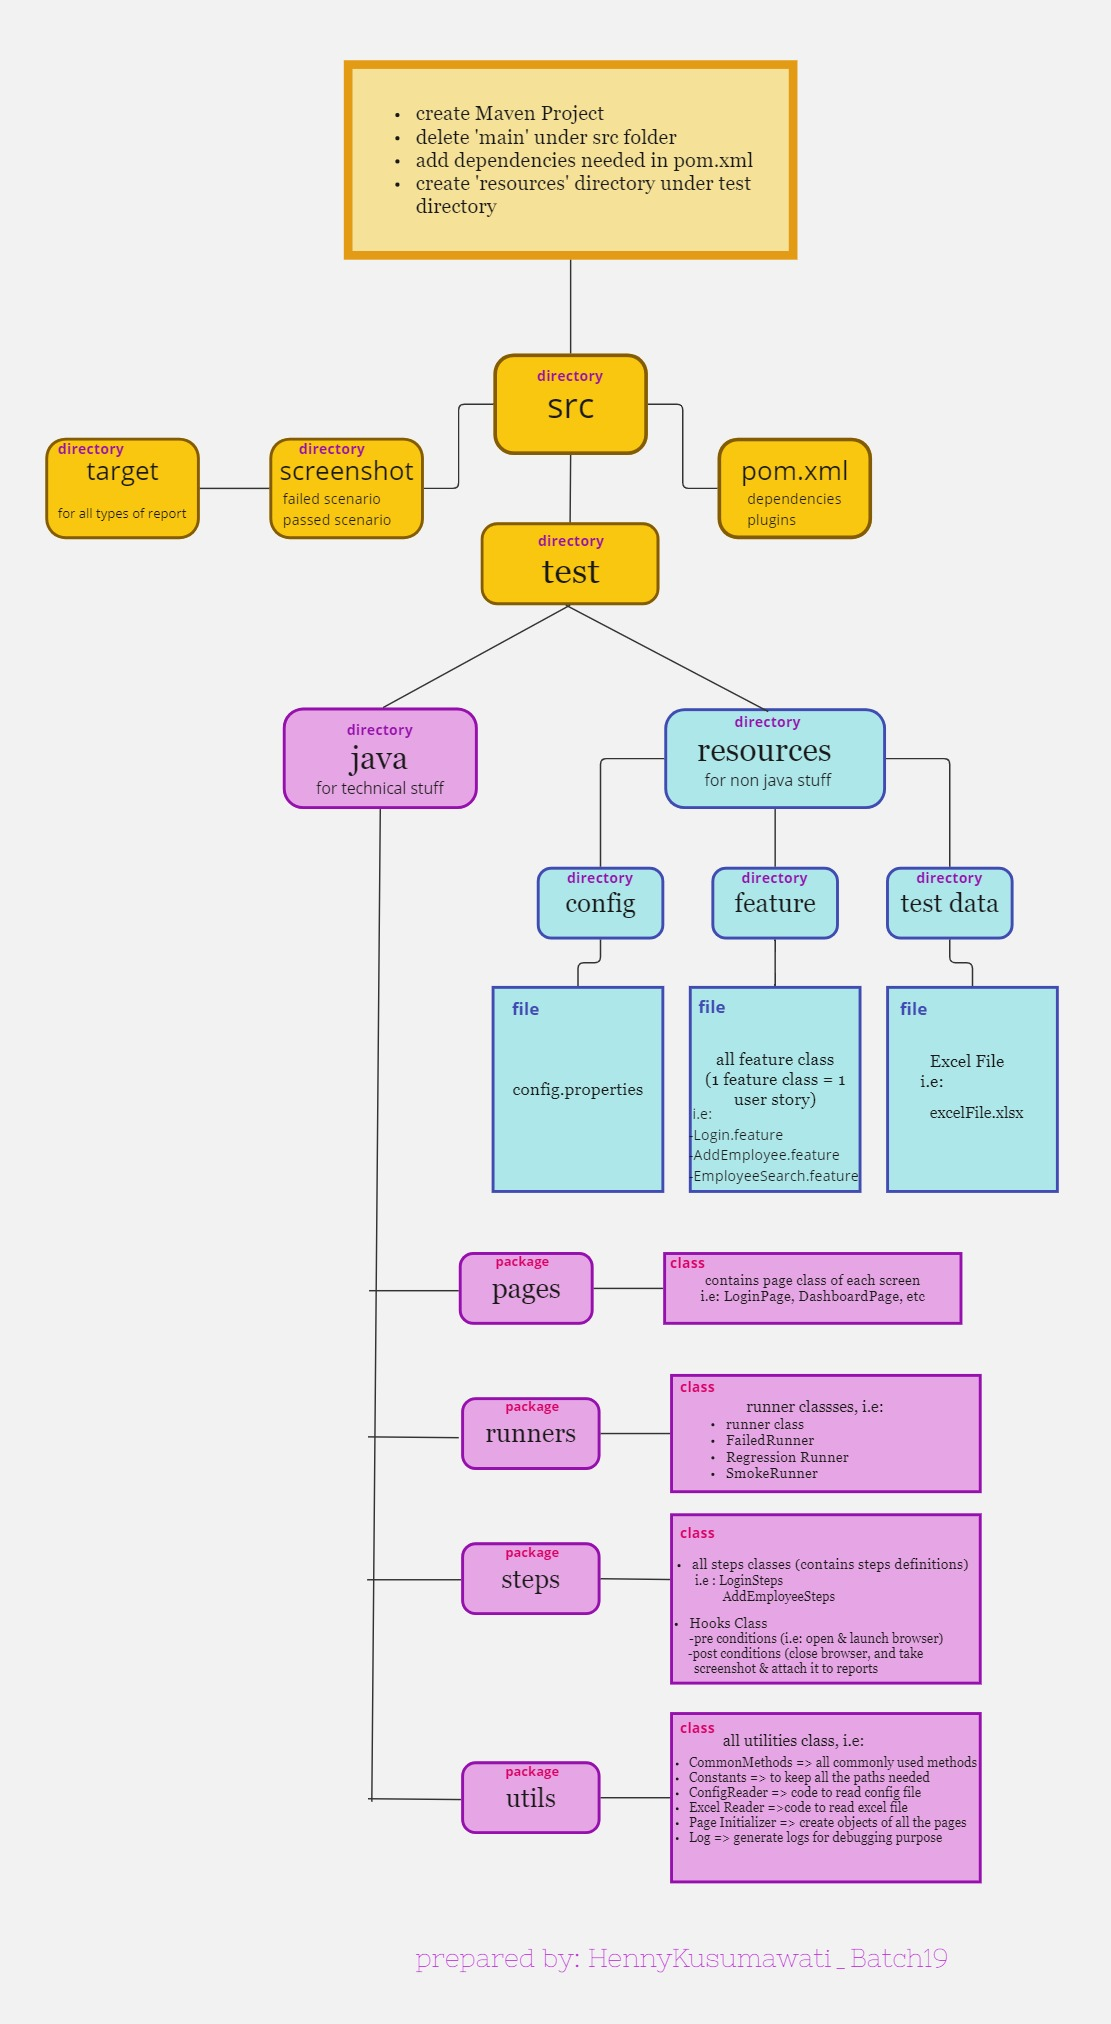
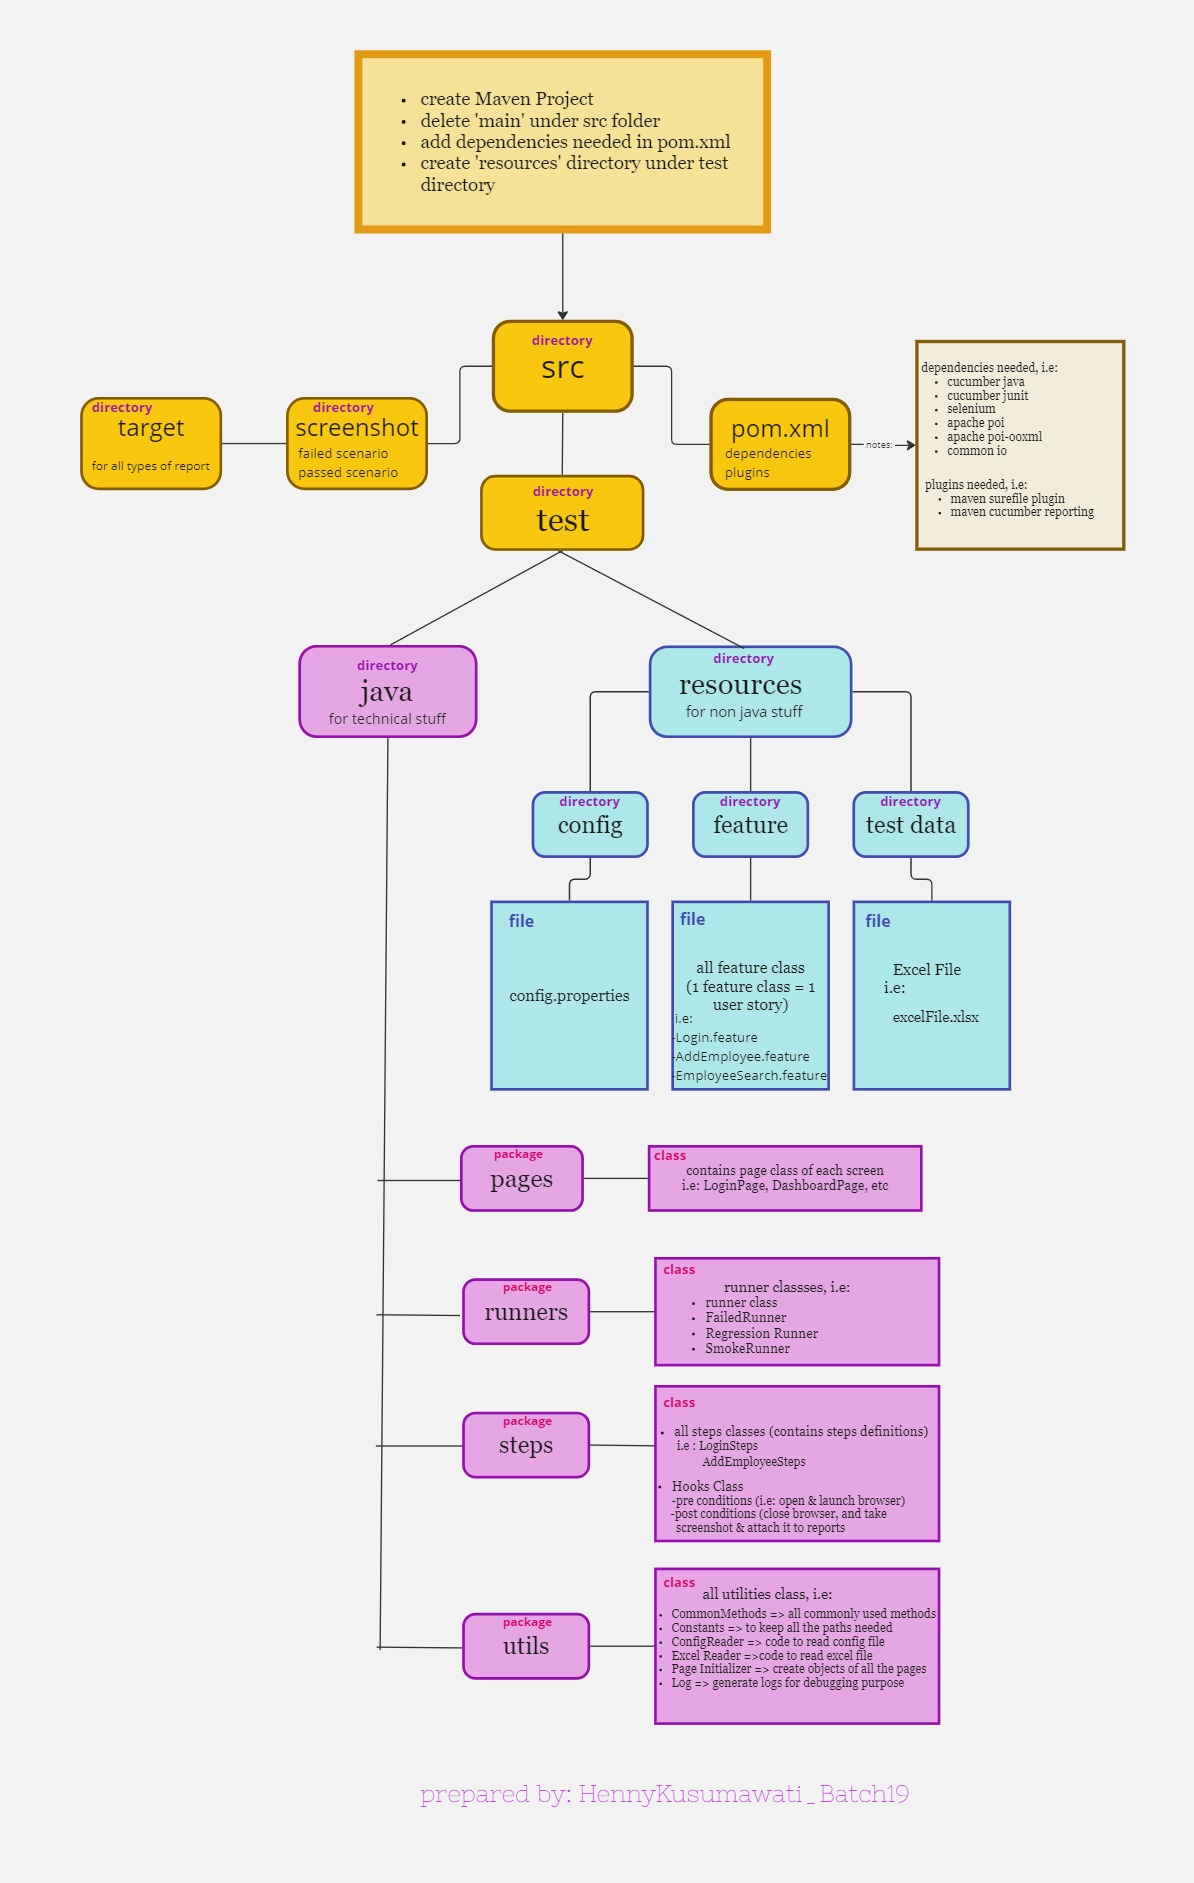
update June 15th

diff --git a/src/test/java/steps/CreateLoginDetailsSteps.java b/src/test/java/steps/CreateLoginDetailsSteps.java
@@ -1,0 +1,106 @@
+package steps;
+
+import io.cucumber.java.en.Given;
+import io.cucumber.java.en.Then;
+import io.cucumber.java.en.When;
+import org.junit.Assert;
+import org.openqa.selenium.By;
+import org.openqa.selenium.WebElement;
+import utils.CommonMethods;
+
+import java.io.IOException;
+import java.time.Duration;
+
+public class CreateLoginDetailsSteps extends CommonMethods {
+    @When("Admin clicks on Create Login Details box")
+    public void admin_clicks_on_create_login_details_box() {
+        if(!addEmployeePage.checkBox.isSelected()){
+            click(addEmployeePage.checkBox);
+        }
+    }
+    @Then("Create Login Details box is enabled")
+    public void create_login_details_box_is_enabled() {
+      //  Assert.assertTrue(addEmployeePage.checkBox.isSelected());
+     //   Assert.assertTrue(dashboardPage.passStrengthMsg.isDisplayed());
+    }
+    @When("Admin create username and password and confirm password")
+    public void admin_create_username_and_password_and_confirm_password() throws InterruptedException {
+        Thread.sleep(2000);
+      // String username=addEmployeePage.lastNameLoc.getText()+(addEmployeePage.firstNameLoc.getText());
+       // sendText(username, addEmployeePage.userName);
+        Thread.sleep(2000);
+         sendText("AnnaMaria", addEmployeePage.userName);
+        //String username="AnnaMaria";
+        //sendText(username, addEmployeePage.userName);
+
+    String password="Hum@nhrm123";
+   String confirmPassword="Hum@nhrm123";
+
+        sendText(password, addEmployeePage.password);
+
+        if (password.length()<8) {
+            // WebElement warn1= driver.findElement(By.xpath("//span[text()='//span[text()='Should have at least 8 characters']']"));
+            // Assert.assertEquals(warn1.getText(),"Should have at least 8 characters");
+        Assert.assertEquals(addEmployeePage.vwStrengthMsg.getText(),"Very Weak");
+            Assert.assertTrue(addEmployeePage.passMsg.isDisplayed());
+        } else if (!password.matches("(?=.*[a-z]).*")){
+           // Assert.assertEquals(dashboardPage.passStrengthMsg.getText(),"Very Weak");
+            Assert.assertTrue(addEmployeePage.passMsg.isDisplayed());
+        } else if (!password.matches("(?=.*[A-Z]).*")) {
+            Assert.assertTrue(addEmployeePage.passMsg.isDisplayed());
+        } else if (!password.matches("(?=.*[0-9]).*")) {
+            Assert.assertTrue(addEmployeePage.passMsg.isDisplayed());
+        } else if (!password.matches("(?=.*[!@#$%^&*]).*")) {
+            Assert.assertTrue(addEmployeePage.passMsg.isDisplayed());
+        } else {
+            Assert.assertEquals(addEmployeePage.passStrengthMsg.getText(),"Strong");
+            Assert.assertTrue(addEmployeePage.passMsg.isDisplayed());
+        }
+
+
+        sendText(confirmPassword, addEmployeePage.confirmPass);
+       // Assert.assertEquals(confirmPassword,addEmployeePage.password.getText());
+
+    }
+    @When("Admin select status from status drop down")
+    public void admin_select_status_from_status_drop_down() {
+
+        selectFromDropDown("Enabled", createLoginDetailPage.statusEmp);
+    }
+    @When("Admin clicks on save button")
+    public void admin_clicks_on_save_button() {
+       click(addEmployeePage.saveButton);
+    }
+
+    @When("Admin clicks on logout button")
+    public void admin_clicks_on_logout_button() {
+        click(dashboardPage.welcomeMsg);
+        selectFromDropDown(dashboardPage.welcomeMsg, "Logout");
+    }
+    @Then("Admin is successfully creating a login details for new employee")
+    public void admin_is_successfully_creating_a_login_details_for_new_employee() {
+        System.out.println("test passed");
+    }
+
+    @When("new employee enters valid username and password")
+    public void new_employee_enters_valid_username_and_password() {
+        sendText("Amaria", loginPage.usernameTextField);
+        sendText("Hum@nhrm123", loginPage.passwordTextField);
+
+
+    }
+    @When("new employee clicks on login button")
+    public void new_employee_clicks_on_login_button() {
+
+        click(loginPage.loginButton);
+        driver.manage().timeouts().implicitlyWait(Duration.ofSeconds(20));
+    }
+    @Then("new employee is successfully logged in")
+    public void new_employee_is_successfully_logged_in() {
+        String welcome=dashboardPage.welcomeMsg.getText();
+        Assert.assertEquals("Welcome Anna",welcome);
+    }
+
+
+
+}

diff --git a/src/test/java/steps/AddDependentSteps.java b/src/test/java/steps/AddDependentSteps.java
@@ -1,0 +1,50 @@
+package steps;
+
+import io.cucumber.java.en.Then;
+import io.cucumber.java.en.When;
+import utils.CommonMethods;
+
+public class AddDependentSteps extends CommonMethods {
+    @When("new employee clicks on My Info Option")
+    public void new_employee_clicks_on_my_info_option() {
+        // Write code here that turns the phrase above into concrete actions
+        throw new io.cucumber.java.PendingException();
+    }
+    @When("new employee clicks on Dependents Option")
+    public void new_employee_clicks_on_dependents_option() {
+        // Write code here that turns the phrase above into concrete actions
+        throw new io.cucumber.java.PendingException();
+    }
+    @When("new employee clicks on Add button")
+    public void new_employee_clicks_on_add_button() {
+        // Write code here that turns the phrase above into concrete actions
+        throw new io.cucumber.java.PendingException();
+    }
+    @When("new employee enters dependent name")
+    public void new_employee_enters_dependent_name() {
+        // Write code here that turns the phrase above into concrete actions
+        throw new io.cucumber.java.PendingException();
+    }
+    @When("new employee selects the relationship")
+    public void new_employee_selects_the_relationship() {
+        // Write code here that turns the phrase above into concrete actions
+        throw new io.cucumber.java.PendingException();
+    }
+    @When("new employee enters the dependent's date of birth")
+    public void new_employee_enters_the_dependent_s_date_of_birth() {
+        // Write code here that turns the phrase above into concrete actions
+        throw new io.cucumber.java.PendingException();
+    }
+    @When("new employee clicks on save button")
+    public void new_employee_clicks_on_save_button() {
+        // Write code here that turns the phrase above into concrete actions
+        throw new io.cucumber.java.PendingException();
+    }
+    @Then("new employee should see the dependent's data")
+    public void new_employee_should_see_the_dependent_s_data() {
+        // Write code here that turns the phrase above into concrete actions
+        throw new io.cucumber.java.PendingException();
+    }
+
+
+}

diff --git a/src/test/java/steps/AddLanguagesSteps.java b/src/test/java/steps/AddLanguagesSteps.java
@@ -1,0 +1,51 @@
+package steps;
+
+import io.cucumber.java.en.Then;
+import io.cucumber.java.en.When;
+import org.openqa.selenium.By;
+import org.openqa.selenium.WebElement;
+import utils.CommonMethods;
+
+import java.time.Duration;
+import java.util.List;
+
+
+public class AddLanguagesSteps extends CommonMethods {
+    @When("user clicks on Admin button")
+    public void user_clicks_on_admin_button() {
+        click(addLanguagesPage.adminOption);
+        driver.manage().timeouts().implicitlyWait(Duration.ofSeconds(20));
+    }
+    @When("Admin navigated to qualifications")
+    public void admin_navigated_to_qualifications() {
+      click(addLanguagesPage.qualification);
+
+    }
+    @When("Admin clicks on Languages")
+    public void admin_clicks_on_languages() {
+        driver.manage().timeouts().implicitlyWait(Duration.ofSeconds(10));
+        click(addLanguagesPage.languages);
+    }
+
+    @When("Admin add any language")
+    public void admin_add_any_languages() {
+        click(addLanguagesPage.addBtn);
+        sendText("Indonesian", addLanguagesPage.addLang);
+    }
+
+    @When("Admin clicks save button")
+    public void admin_clicks_save_button() {
+        click(addLanguagesPage.saveBtn);
+    }
+    @Then("Admin user successfully add languages")
+    public void admin_user_successfully_add_languages() throws InterruptedException {
+        List<WebElement>langs=driver.findElements(By.xpath("//table[@id='recordsListTable']/tbody/tr/td/a"));
+        for(WebElement lang:langs){
+        if(lang.getText().equals("Indonesian")){
+            System.out.println("passed");
+            Thread.sleep(2000);
+
+        }}
+    }
+
+}

diff --git a/src/test/java/pages/AddLanguagesPage.java b/src/test/java/pages/AddLanguagesPage.java
@@ -1,0 +1,38 @@
+package pages;
+
+import org.openqa.selenium.WebElement;
+import org.openqa.selenium.support.FindAll;
+import org.openqa.selenium.support.FindBy;
+import org.openqa.selenium.support.FindBys;
+import org.openqa.selenium.support.PageFactory;
+import org.openxmlformats.schemas.wordprocessingml.x2006.main.impl.HdrDocumentImpl;
+import utils.CommonMethods;
+
+public class AddLanguagesPage extends CommonMethods {
+    @FindBy(id = "menu_admin_viewAdminModule")
+    public WebElement adminOption;
+
+    @FindBy(id = "menu_admin_Qualifications")
+    public WebElement qualification;
+
+    @FindBy(id = "menu_admin_viewLanguages")
+    public WebElement languages;
+
+    @FindBy(id = "btnAdd")
+    public WebElement addBtn;
+
+    @FindBy(id = "language_name")
+    public WebElement addLang;
+
+    @FindBy(id = "btnSave")
+    public WebElement saveBtn;
+
+    @FindBy(xpath = "//table[@id='recordsListTable']/tbody/tr/td/a")
+    public WebElement allLanguages;
+
+
+
+    public AddLanguagesPage() {
+        PageFactory.initElements(driver,this);
+    }
+}

diff --git a/src/test/java/utils/PageInitializer.java b/src/test/java/utils/PageInitializer.java
@@ -1,20 +1,22 @@
 package utils;
 
-import pages.AddEmployeePage;
-import pages.DashboardPage;
-import pages.EmployeeSearchPage;
-import pages.LoginPage;
+import pages.*;
 
 public class PageInitializer {
     public static AddEmployeePage addEmployeePage;
     public static LoginPage loginPage;
     public static DashboardPage dashboardPage;
     public static EmployeeSearchPage employeeSearchPage;
+    public static CreateLoginDetailPage createLoginDetailPage;
+    public static AddLanguagesPage addLanguagesPage;
+
     public static void initializePageObjects(){
         addEmployeePage=new AddEmployeePage();
         loginPage=new LoginPage();
         dashboardPage=new DashboardPage();
         employeeSearchPage=new EmployeeSearchPage();
+        createLoginDetailPage=new CreateLoginDetailPage();
+        addLanguagesPage=new AddLanguagesPage();
     }
 
 

diff --git a/src/test/java/pages/AddEmployeePage.java b/src/test/java/pages/AddEmployeePage.java
@@ -34,6 +34,15 @@ public class AddEmployeePage extends CommonMethods {
     @FindBy(id = "re_password")
     public  WebElement confirmPass;
 
+    @FindBy(xpath = "//span[text()='Very Weak']")
+    public WebElement vwStrengthMsg;
+
+    @FindBy(xpath = "//span[text()='Strong']")
+    public WebElement passStrengthMsg;
+
+    @FindBy(xpath = "//span[text()='For a strong password, please use a hard to guess combination of text with upper and lower case characters, symbols and numbers']")
+    public WebElement passMsg;
+
     public AddEmployeePage() {
         PageFactory.initElements(driver,this);
     }

diff --git a/src/test/java/pages/CreateLoginDetailPage.java b/src/test/java/pages/CreateLoginDetailPage.java
@@ -1,0 +1,20 @@
+package pages;
+
+import org.openqa.selenium.WebElement;
+import org.openqa.selenium.support.FindBy;
+import org.openqa.selenium.support.PageFactory;
+import org.openxmlformats.schemas.wordprocessingml.x2006.main.impl.HdrDocumentImpl;
+import utils.CommonMethods;
+
+public class CreateLoginDetailPage extends CommonMethods {
+
+    @FindBy(xpath = "//select[@id='status']")
+    public WebElement statusEmp;
+
+
+
+
+    public CreateLoginDetailPage() {
+        PageFactory.initElements(driver,this);
+    }
+}

diff --git a/src/test/java/steps/LoginSteps.java b/src/test/java/steps/LoginSteps.java
@@ -37,8 +37,8 @@ public class LoginSteps extends CommonMethods {
     public void user_clicks_on_login_button() {
         //  WebElement loginButton = driver.findElement(By.cssSelector("input#btnLogin"));
         //we can use xPath too, ie: //*[@id='btnLogin']
-       // click(loginPage.loginButton);
-        jsClick(loginPage.loginButton);
+       click(loginPage.loginButton);
+      //  jsClick(loginPage.loginButton);
         driver.manage().timeouts().implicitlyWait(Duration.ofSeconds(10));
     }
 

diff --git a/src/test/java/runners/RunnerClass.java b/src/test/java/runners/RunnerClass.java
@@ -8,8 +8,8 @@ import org.junit.runner.RunWith;
 @CucumberOptions(
         features = "src/test/resources/features/",
         glue="steps",
-        dryRun = false,
-        tags="@featurefile",
+        dryRun = true,
+        tags="@UStory49",
         plugin={"pretty","html:target/cucumber.html","json:target/cucumber.json",
                 "rerun:target/failed.txt"}
 )

diff --git a/src/test/java/pages/LoginPage.java b/src/test/java/pages/LoginPage.java
@@ -28,6 +28,8 @@ public class LoginPage extends CommonMethods {
     public void enterPassword() throws IOException {
         sendText(ConfigReader.read("password"),loginPage.passwordTextField);
     }
+
+
     public LoginPage() {
         PageFactory.initElements(driver,this);
     }

diff --git a/src/test/java/pages/DashboardPage.java b/src/test/java/pages/DashboardPage.java
@@ -17,6 +17,11 @@ public class DashboardPage extends CommonMethods {
 
     @FindBy(id = "welcome")
     public WebElement welcomeMsg;
+
+
+
+
+
     public DashboardPage() {
         PageFactory.initElements(driver,this);
     }
